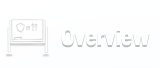
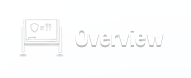
changedstart app and download brochure button text and color, also repositoned and resliced preview buttons for the program pages.

diff --git a/public/stylesheets/styles.css b/public/stylesheets/styles.css
@@ -275,6 +275,7 @@ nav {
 		position: relative;
 		text-align: center;
 		width: 800px;
+		font-weight: lighter;
 	}
 	
 	#splash-1 img {
@@ -294,10 +295,17 @@ nav {
 	.buttons {
 		display: block;
 		float: left;
-		left: 399px;
+		left: 322px;
 		position: relative;
 		top: 200px;
 	}
+	
+		.buttons.last {
+			left: 872px;
+			margin-right: 0 !important;
+			position: relative;
+			top: 53px;
+		}
 
 
 #learn_best {
